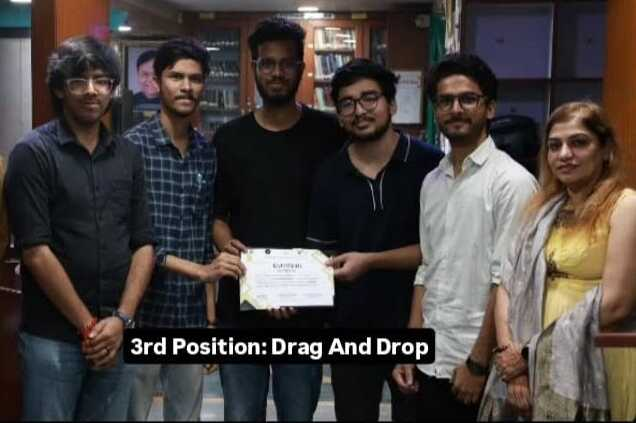
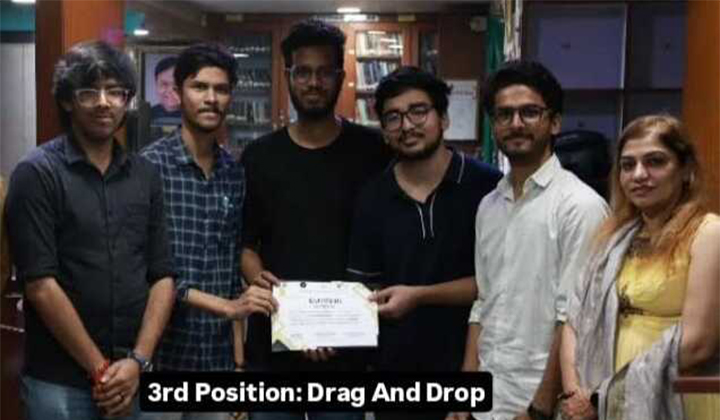
Fixed all the bugs

diff --git a/src/components/AboutSection.tsx b/src/components/AboutSection.tsx
@@ -1,32 +1,55 @@
 "use client";
 import { motion } from "framer-motion";
+import { HeroHighlight, Highlight } from "./ui/hero-highlight";
 
 const AboutSection = () => {
   return (
-    <section className="w-full bg-black py-24 relative">
-      <div className="absolute inset-0 bg-gradient-to-b from-black/50 via-transparent to-black/50" />
-      <motion.div
-        className="max-w-4xl mx-auto px-6"
-        initial={{ opacity: 0, y: 20 }}
-        animate={{ opacity: 1, y: 0 }}
-        transition={{ duration: 0.8 }}
+    // <section className="w-full bg-black py-24 relative">
+    //   <div className="absolute inset-0 bg-gradient-to-b from-black/50 via-transparent to-black/50" />
+    //   <motion.div
+    //     className="max-w-4xl mx-auto px-6"
+    //     initial={{ opacity: 0, y: 20 }}
+    //     animate={{ opacity: 1, y: 0 }}
+    //     transition={{ duration: 0.8 }}
+    //   >
+    //     <motion.div
+    //       className="relative"
+    //       initial={{ opacity: 0 }}
+    //       animate={{ opacity: 1 }}
+    //       transition={{ delay: 0.3, duration: 0.8 }}
+    //     >
+    //       <div className="absolute -left-4 top-0 w-0.5 h-full bg-blue-500/30" />
+    //       <p className="text-white/90 text-lg md:text-xl leading-relaxed font-light text-justify">
+    //         Developer Student Club (DSC) BVCOE, is a dynamic community of tech
+    //         enthusiasts committed to fostering innovation and collaboration. We
+    //         empower students to connect with peers, learn emerging technologies,
+    //         and build impactful solutions for real-world challenges.
+    //       </p>
+    //     </motion.div>
+    //   </motion.div>
+    // </section>
+    <HeroHighlight className="!bg-black">
+      <motion.h1
+        initial={{
+          opacity: 0,
+          y: 20,
+        }}
+        animate={{
+          opacity: 1,
+          y: [20, -5, 0],
+        }}
+        transition={{
+          duration: 0.5,
+          ease: [0.4, 0.0, 0.2, 1],
+        }}
+        className="text-2xl px-4 md:text-4xl lg:text-5xl  font-bold text-white max-w-4xl leading-relaxed lg:leading-snug text-center mx-auto "
       >
-        <motion.div
-          className="relative"
-          initial={{ opacity: 0 }}
-          animate={{ opacity: 1 }}
-          transition={{ delay: 0.3, duration: 0.8 }}
-        >
-          <div className="absolute -left-4 top-0 w-0.5 h-full bg-blue-500/30" />
-          <p className="text-white/90 text-lg md:text-xl leading-relaxed font-light text-justify">
-            Developer Student Club (DSC) BVCOE, is a dynamic community of tech
-            enthusiasts committed to fostering innovation and collaboration. We
-            empower students to connect with peers, learn emerging technologies,
-            and build impactful solutions for real-world challenges.
-          </p>
-        </motion.div>
-      </motion.div>
-    </section>
+        Empowering tech enthusiasts to innovate, collaborate, and{" "}
+        <Highlight className="text-black dark:text-white">
+          build impactful solutions.
+        </Highlight>
+      </motion.h1>
+    </HeroHighlight>
   );
 };
 

diff --git a/src/components/ui/hero-highlight.tsx b/src/components/ui/hero-highlight.tsx
@@ -1,0 +1,96 @@
+"use client";
+import { cn } from "@/lib/utils";
+import { useMotionValue, motion, useMotionTemplate } from "framer-motion";
+import React from "react";
+
+export const HeroHighlight = ({
+  children,
+  className,
+  containerClassName,
+}: {
+  children: React.ReactNode;
+  className?: string;
+  containerClassName?: string;
+}) => {
+  let mouseX = useMotionValue(0);
+  let mouseY = useMotionValue(0);
+
+  function handleMouseMove({
+    currentTarget,
+    clientX,
+    clientY,
+  }: React.MouseEvent<HTMLDivElement>) {
+    if (!currentTarget) return;
+    let { left, top } = currentTarget.getBoundingClientRect();
+
+    mouseX.set(clientX - left);
+    mouseY.set(clientY - top);
+  }
+  return (
+    <div
+      className={cn(
+        "relative h-[25rem] flex items-center bg-black justify-center w-full group",
+        containerClassName
+      )}
+      onMouseMove={handleMouseMove}
+    >
+      <div className="absolute inset-0 bg-dot-thick-neutral-800  pointer-events-none" />
+      <motion.div
+        className="pointer-events-none bg-dot-thick-indigo-500   absolute inset-0 opacity-0 transition duration-300 group-hover:opacity-100"
+        style={{
+          WebkitMaskImage: useMotionTemplate`
+            radial-gradient(
+              200px circle at ${mouseX}px ${mouseY}px,
+              black 0%,
+              transparent 100%
+            )
+          `,
+          maskImage: useMotionTemplate`
+            radial-gradient(
+              200px circle at ${mouseX}px ${mouseY}px,
+              black 0%,
+              transparent 100%
+            )
+          `,
+        }}
+      />
+
+      <div className={cn("relative z-20", className)}>{children}</div>
+    </div>
+  );
+};
+
+export const Highlight = ({
+  children,
+  className,
+}: {
+  children: React.ReactNode;
+  className?: string;
+}) => {
+  return (
+    <motion.span
+      initial={{
+        backgroundSize: "0% 100%",
+      }}
+      animate={{
+        backgroundSize: "100% 100%",
+      }}
+      transition={{
+        duration: 2,
+        ease: "linear",
+        delay: 0.5,
+      }}
+      style={{
+        backgroundRepeat: "no-repeat",
+        backgroundPosition: "left center",
+        display: "inline",
+      }}
+      className={cn(
+        `relative inline-block pb-1   px-1 rounded-lg bg-gradient-to-r from-indigo-300 to-purple-300 dark:from-indigo-500 dark:to-purple-500`,
+        className
+      )}
+    >
+      {children}
+    </motion.span>
+  );
+};

diff --git a/src/app/event-calendar/EventTimeline.tsx b/src/app/event-calendar/EventTimeline.tsx
@@ -59,7 +59,7 @@ export function SocietyTimelineDemo() {
           <div className="grid grid-cols-2 gap-4">
             <Link href="/event-calendar/GameOfCode">
               <Image
-                src="/gameofcode.jpg"
+                src="/code.jpg"
                 alt="Game of Code Event"
                 width={500}
                 height={500}
@@ -67,8 +67,10 @@ export function SocietyTimelineDemo() {
               />
             </Link>
             <div className="space-y-2">
-              <div className="flex gap-2 items-center text-neutral-500 dark:text-neutral-300 text-xs md:text-sm 
-              ">
+              <div
+                className="flex gap-2 items-center text-neutral-500 dark:text-neutral-300 text-xs md:text-sm 
+              "
+              >
                 🥇 Over Engineers
               </div>
               <div className="flex gap-2 items-center text-neutral-500 dark:text-neutral-300 text-xs md:text-sm">

diff --git a/src/constants/teamdata.ts b/src/constants/teamdata.ts
@@ -12,7 +12,7 @@ export const teamMembers: TeamMember[] = [
     name: "Dr. Alka Leeka",
     role: "Faculty Incharge",
     bio: "Dr. Alka Leekha, a distinguished Associate Professor with 21+ years of teaching experience, holds a Ph.D. in Computer and Information Sciences. She specializes in Data Security, Cloud Computing, Big Data Analytics, and Computer Vision, and has taught courses like Cryptography and Software Engineering. Her dedication and expertise make her an inspiring leader and the ideal Faculty In-Charge for DSC.",
-    imageUrl: "/alka.jpg",
+    imageUrl: "/alka.png",
     featured: true,
   },
   {

diff --git a/src/app/event-calendar/page.tsx b/src/app/event-calendar/page.tsx
@@ -2,6 +2,7 @@ import {
   VideoBackground2,
   VideoBackground4,
   VideoBackground5,
+  VideoBackground6,
 } from "@/components/common/VideoBackground";
 import React from "react";
 import SocietyTimelineDemo from "./EventTimeline";
@@ -9,7 +10,7 @@ import SocietyTimelineDemo from "./EventTimeline";
 const page = () => {
   return (
     <div className="min-h-dvh bg-[#0A0A0F] text-white/90 overflow-y-auto font-light">
-      {/* <VideoBackground5 /> */}
+      <VideoBackground6 />
 
       {/* Hero Section */}
       <main className="relative z-10">

diff --git a/src/app/about/page.tsx b/src/app/about/page.tsx
@@ -291,7 +291,7 @@ export default function DepartmentsGrid() {
               Meet the teams that make our society thrive.
             </p>
           </div>
-          <div className="grid grid-cols-1 place-items-center md:grid-cols-2 lg:grid-cols-3  gap-12">
+          <div className="grid grid-cols-1 place-items-center md:grid-cols-2 lg:grid-cols-4  gap-12">
             {departments.map((dept) => (
               <DepartmentDialog
                 key={dept.title}
